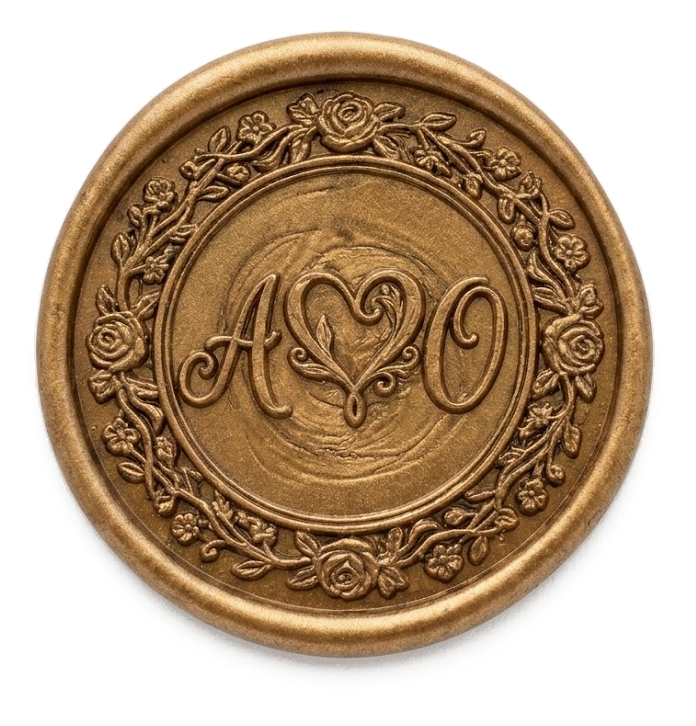
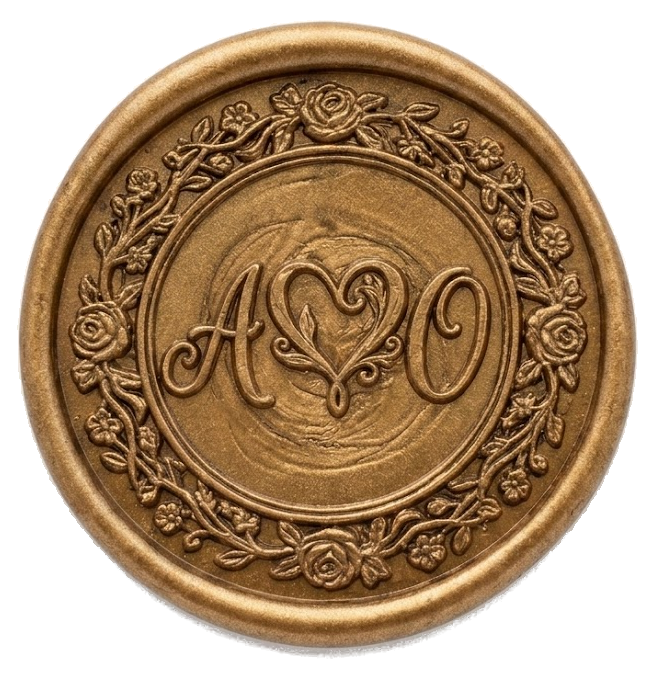
Add files via upload

diff --git a/index.html b/index.html
@@ -40,15 +40,15 @@
   /* Sello redondo antiguo */
   .seal {
     position: fixed;
-    top: 62%;
+    top: 50%;
     left: 50%;
-    width: min(24vw, 24vh, 200px);
+    width: min(38vw, 38vh, 320px);
     aspect-ratio: 1 / 1;
     transform: translate(-50%, -50%);
     z-index: 10;
     animation: sealVibrate 2.8s ease-in-out infinite;
-    filter: drop-shadow(0 10px 18px rgba(20, 30, 10, 0.55))
-            drop-shadow(0 4px 6px rgba(40, 30, 5, 0.4));
+    filter: drop-shadow(0 3px 5px rgba(20, 30, 10, 0.35))
+            drop-shadow(0 1px 2px rgba(40, 30, 5, 0.25));
   }
 
   .seal img {
@@ -120,15 +120,25 @@
 </head>
 <body>
 
-<!-- La V de la solapa: empieza un poco más abajo de las esquinas -->
+<!-- Línea divisoria horizontal en el medio - el sello la rompe visualmente -->
 <svg class="v-line" viewBox="0 0 100 100" preserveAspectRatio="none">
-  <line x1="0" y1="20" x2="50" y2="62"
-        stroke="rgba(0,0,0,0.22)"
-        stroke-width="1.5"
-        vector-effect="non-scaling-stroke"/>
-  <line x1="50" y1="62" x2="100" y2="20"
-        stroke="rgba(0,0,0,0.22)"
-        stroke-width="1.5"
+  <defs>
+    <filter id="lineShadow" x="-5%" y="-200%" width="110%" height="500%">
+      <feGaussianBlur in="SourceAlpha" stdDeviation="0.4"/>
+      <feOffset dy="0.5" result="offsetblur"/>
+      <feComponentTransfer>
+        <feFuncA type="linear" slope="0.55"/>
+      </feComponentTransfer>
+      <feMerge>
+        <feMergeNode/>
+        <feMergeNode in="SourceGraphic"/>
+      </feMerge>
+    </filter>
+  </defs>
+  <line x1="0" y1="50" x2="100" y2="50"
+        stroke="rgba(0,0,0,0.32)"
+        stroke-width="3"
+        filter="url(#lineShadow)"
         vector-effect="non-scaling-stroke"/>
 </svg>
 
